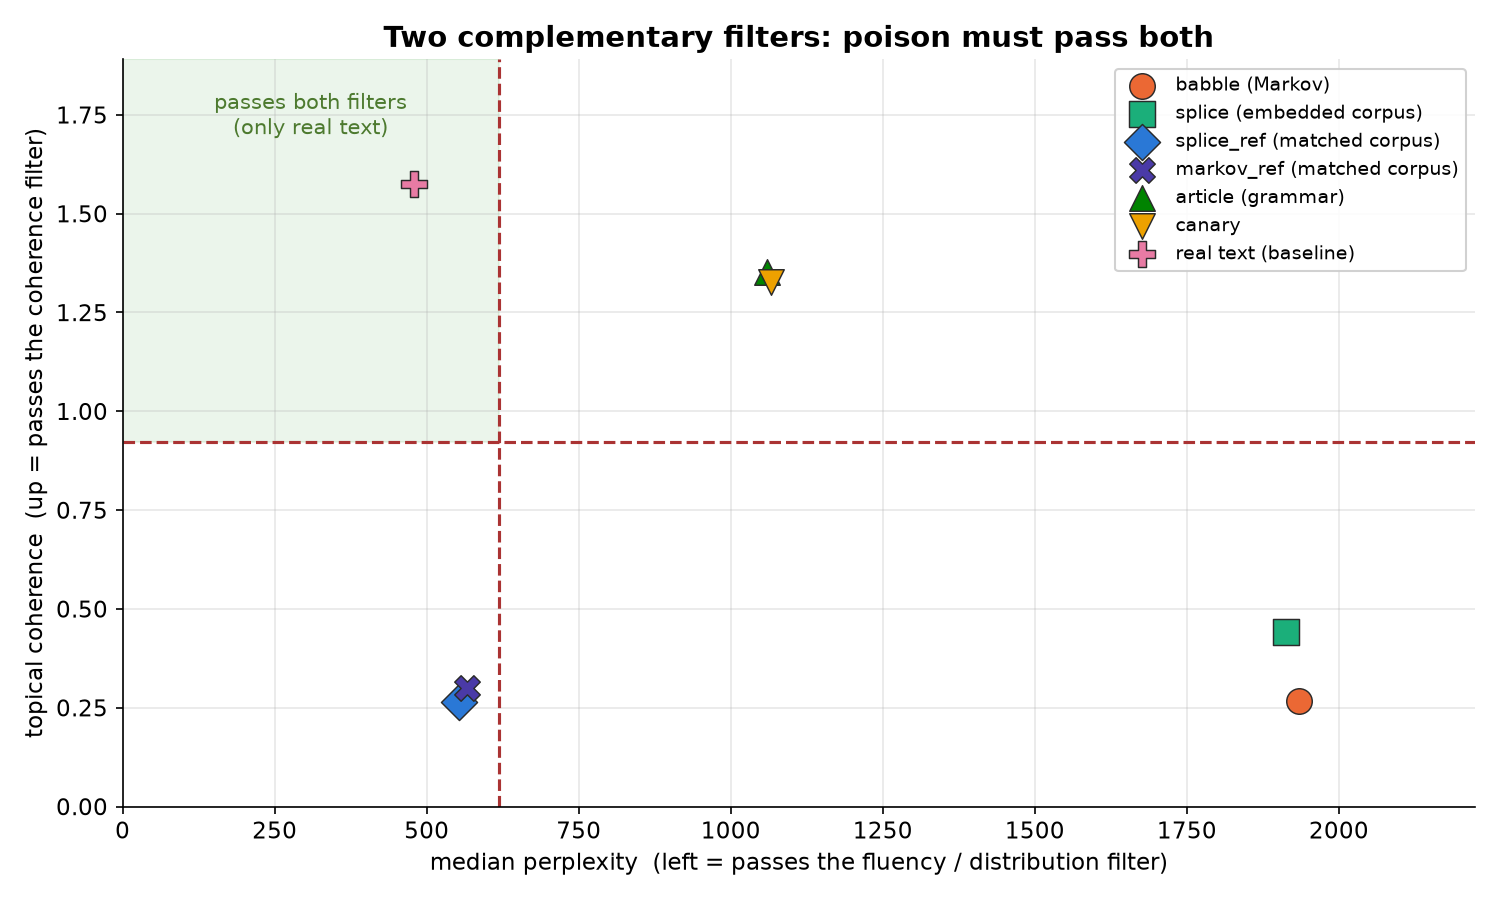
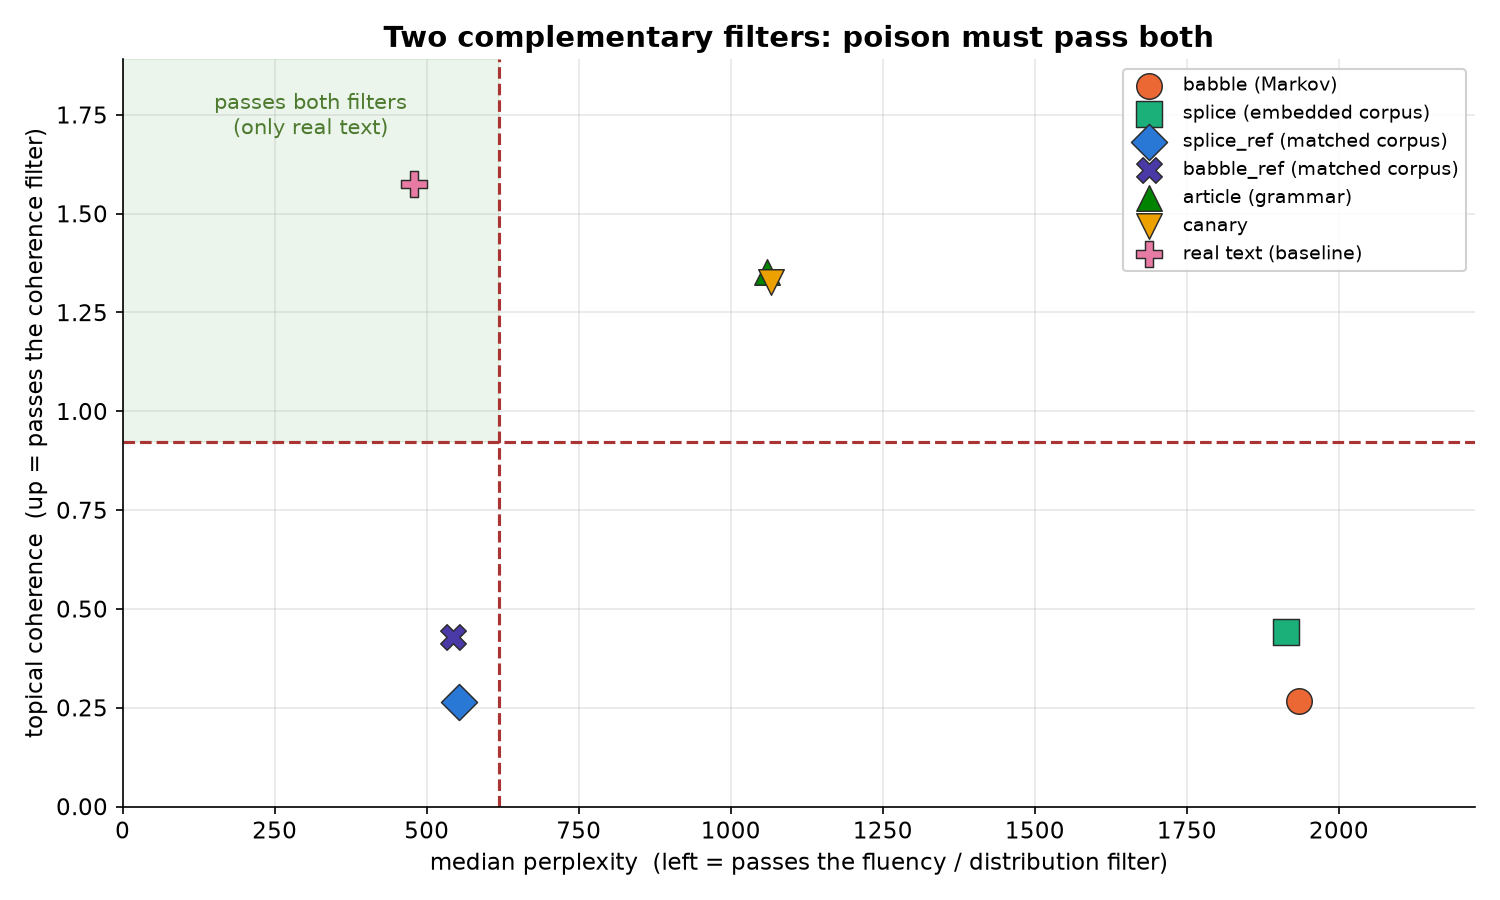
docs: use Henbane's real babble for the matched-corpus probe
Make the study's surviving generators 1:1 with the shipped gateway.

Before, the matched-corpus generator (markov_ref) was a Python order-2
Markov reimplementation. Now emit produces babble_ref by running
Henbane's SHIPPED babble generator over the reference corpus, exactly as
the gateway would with poison.corpus_path pointed at a matched corpus.
So both surviving strategies in the study are now real Henbane code:
splice_ref is the shipped splice, babble_ref is the shipped babble, each
differing from the embedded default only in the corpus.

babble_ref survives the full gauntlet at 61% (vs splice_ref 57%), so
Henbane's actual babble, pointed at a distribution-matched corpus, beats
the perplexity filter. It still fails the coherence filter (word salad),
like every bypass strategy, so the complementary-filters conclusion is
unchanged: only real text passes both, and convincing poison needs
LLM-grade generation.

- emit: add babble_ref alongside splice_ref (both over the reference corpus).
- study.py: load babble_ref from samples; drop the Python markov_ref and
  the now-dead markov_tokens helper; the generic Markov is kept only for
  the order-sweep bypass experiment. Prose and figures updated.

STUDY.md regenerated, dash-free. Research tooling only; no gateway change.

Changed region(s): [[0.736, 0.0622, 0.9507, 0.3111], [0.3067, 0.7467, 0.3373, 0.7778], [0.276, 0.6844, 0.3067, 0.7156]]

diff --git a/research/study.py b/research/study.py
@@ -51,10 +51,10 @@ DATA = ROOT / "data"
 FIGS = ROOT / "figures"
 FIGS.mkdir(exist_ok=True)
 
-STRATEGIES = ["babble", "splice", "splice_ref", "markov_ref", "article", "canary", "baseline_real"]
+STRATEGIES = ["babble", "splice", "splice_ref", "babble_ref", "article", "canary", "baseline_real"]
 LABELS = {"babble": "babble (Markov)", "splice": "splice (embedded corpus)",
           "splice_ref": "splice_ref (matched corpus)",
-          "markov_ref": "markov_ref (matched corpus)",
+          "babble_ref": "babble_ref (matched corpus)",
           "article": "article (grammar)",
           "canary": "canary", "baseline_real": "real text (baseline)"}
 # Categorical palette validated colorblind-safe (CVD ΔE 9.1, normal-vision floor
@@ -65,12 +65,12 @@ LABELS = {"babble": "babble (Markov)", "splice": "splice (embedded corpus)",
 # "not a strategy". The low-contrast WARN colors are fine here: every figure ships
 # with markers, a legend, and a data table (the relief rule).
 COLORS = {"babble": "#eb6834", "splice": "#1baf7a", "splice_ref": "#2a78d6",
-          "markov_ref": "#4a3aa7",
+          "babble_ref": "#4a3aa7",
           "article": "#008300", "canary": "#eda100",
           "baseline_real": "#e87ba4"}
 # Distinct marker shapes so lines that trace the same path (several strategies all
 # cliff to 0% together) stay tellable apart by shape, not colour alone.
-MARKERS = {"babble": "o", "splice": "s", "splice_ref": "D", "markov_ref": "X",
+MARKERS = {"babble": "o", "splice": "s", "splice_ref": "D", "babble_ref": "X",
            "article": "^", "canary": "v", "baseline_real": "P"}
 
 
@@ -95,13 +95,6 @@ def markov_gen(m, order, n, rng):
     return " ".join(out[:n])
 
 
-_PUNCT_WORD = re.compile(r"[a-z]+|[.!?]")
-
-
-def markov_tokens(text):
-    """Words plus sentence-ending punctuation, so a Markov chain over these emits
-    sentence boundaries (the markov_ref strategy needs them to clear the C4 checks)."""
-    return _PUNCT_WORD.findall(text.lower())
 
 STOPWORDS = set("the be to of and a in that have i it for not on with he as you "
                 "do at this but his by from they we say her she or an will my one "
@@ -254,17 +247,11 @@ def main():
         d = json.loads(line)
         docs[d["strategy"]].append(extract_text(d["html"]))
 
-    # markov_ref: a research-probe generator. An order-2 Markov chain over the MATCHED
-    # reference corpus (the register the perplexity model expects), not the embedded
-    # one the shipped generators use. It tests whether a *generator* (not sentence
-    # splicing) survives the gauntlet once the corpus matches the filter's distribution.
-    ref_text = (DATA / "reference.txt").read_text(encoding="utf-8")
-    matched = tokens(ref_text)                       # words only, for the order-sweep experiment
-    mk = build_markov(markov_tokens(ref_text), 2)    # words + punctuation, for a C4-passing document
-    n_ref = len(docs["splice_ref"]) or 300
-    for i in range(n_ref):
-        raw = markov_gen(mk, 2, 170, random.Random(1000 + i))
-        docs["markov_ref"].append(re.sub(r"\s+([.!?])", r"\1", raw))  # attach " ." -> "."
+    # babble_ref (Henbane's shipped babble generator run over the matched reference
+    # corpus, byte-for-byte what the gateway emits with poison.corpus_path set) is
+    # loaded from samples.jsonl like every other real strategy. The matched-corpus
+    # tokens are kept here for the Markov-order bypass experiment further down.
+    matched = tokens((DATA / "reference.txt").read_text(encoding="utf-8"))
 
     train = (DATA / "reference_train.txt").read_text(encoding="utf-8")
     lm = Trigram(train)
@@ -537,7 +524,7 @@ def plot_perplexity_vs_order(lm, cut, matched):
             "coherence or generator sophistication. Match the corpus and even crude "
             "generation passes; mismatch it and nothing does. This is why the shipped "
             "generators (over the embedded corpus) are filtered, why `splice_ref` and "
-            "`markov_ref` (both over the matched corpus) survive the full gauntlet, and "
+            "`babble_ref` (both over the matched corpus) survive the full gauntlet, and "
             "why the one real lever is `poison.corpus_path` pointed at distribution-matched "
             "text.\n\n"
             "**Honest limit.** Passing perplexity is not the same as being coherent. An "
@@ -596,12 +583,12 @@ def plot_filter_frontier(ppls, cohs, ppl_cut, coh_cut):
             f"text's {g(ys, 'baseline_real'):.1f}), but their coined entity names are words "
             f"no reference model has seen, so perplexity is {g(xs, 'article'):.0f}, far above "
             f"the {ppl_cut:.0f} cutoff.\n"
-            f"- **`splice_ref` and `markov_ref` pass perplexity but fail coherence.** The "
+            f"- **`splice_ref` and `babble_ref` pass perplexity but fail coherence.** The "
             f"matched corpus buys local fluency (perplexity {g(xs, 'splice_ref'):.0f} and "
-            f"{g(xs, 'markov_ref'):.0f}), but recombining random sentences or Markov-generating "
+            f"{g(xs, 'babble_ref'):.0f}), but recombining random sentences or Markov-generating "
             f"word salad destroys topical continuity: shared content words drop from "
             f"{g(ys, 'baseline_real'):.1f} for real text to {g(ys, 'splice_ref'):.1f} and "
-            f"{g(ys, 'markov_ref'):.1f}.\n"
+            f"{g(ys, 'babble_ref'):.1f}.\n"
             "- **`babble` and `splice` (embedded) fail both.**\n\n"
             "So a poison generator must clear two orthogonal bars at once: distribution-matched "
             "vocabulary AND coherent discourse, while still being false. Clearing both is what a "
@@ -657,8 +644,8 @@ def write_report(rows, ppls, cut):
         r = rows[s]
         return 100 * r["dedup"] / (r["n"] or 1)
 
-    sr_ppl, sp_ppl, mr_ppl = med("splice_ref"), med("splice"), med("markov_ref")
-    sr_final, real_final, mr_final = finalpct("splice_ref"), finalpct("baseline_real"), finalpct("markov_ref")
+    sr_ppl, sp_ppl, br_ppl = med("splice_ref"), med("splice"), med("babble_ref")
+    sr_final, real_final, br_final = finalpct("splice_ref"), finalpct("baseline_real"), finalpct("babble_ref")
     filtered = [LABELS[s] for s in STRATEGIES
                 if s != "baseline_real" and rows[s]["dedup"] == 0]
 
@@ -667,10 +654,10 @@ def write_report(rows, ppls, cut):
               "## What the numbers say", "",
               f"- **Only the distribution-matched strategies clear the full gauntlet, and it "
               f"does not matter whether you splice or generate.** `splice_ref` (whole sentences "
-              f"recombined from the reference corpus) and `markov_ref` (a plain order-2 Markov "
+              f"recombined from the reference corpus) and `babble_ref` (Henbane's shipped babble "
               f"generator over that same corpus) both land near real-text perplexity "
-              f"({sr_ppl:.0f} and {mr_ppl:.0f} vs the ~{cut:.0f} cutoff) and survive through "
-              f"dedup ({sr_final:.0f}% and {mr_final:.0f}%). Everything over the *embedded* "
+              f"({sr_ppl:.0f} and {br_ppl:.0f} vs the ~{cut:.0f} cutoff) and survive through "
+              f"dedup ({sr_final:.0f}% and {br_final:.0f}%). Everything over the *embedded* "
               f"corpus ({', '.join(filtered)}) is filtered ~100% at the perplexity stage. The "
               f"lever is the corpus, not the generator (quantified below).",
               f"- **The lever is the corpus, not the generator.** `splice` over the *embedded* "

diff --git a/research/emit/main.go b/research/emit/main.go
@@ -102,16 +102,19 @@ func main() {
 		}
 	}
 
-	// splice_ref is a research probe, not a shipped strategy: splice over the
-	// reference corpus (the register the perplexity model expects) instead of the
-	// embedded one. It isolates whether sentence-splicing survives when the corpus
-	// matches the filter's distribution, versus the embedded-corpus mismatch the
-	// shipped `splice` shows. Single-site only.
+	// splice_ref and babble_ref are research probes, not shipped strategies. They run
+	// the SHIPPED splice and babble generators over the reference corpus (the register
+	// the perplexity model expects) instead of the embedded one, isolating whether a
+	// strategy survives when its corpus matches the filter's distribution. They are
+	// byte-for-byte what the gateway produces with poison.corpus_path pointed at a
+	// matched corpus: only the corpus differs from the embedded default. Single-site only.
 	if *sites <= 1 {
 		if raw, err := os.ReadFile(*refPath); err == nil {
-			gen := labyrinth.New(*links, splice.New(raw, *baseSalt), *paragraphs)
+			spGen := labyrinth.New(*links, splice.New(raw, *baseSalt), *paragraphs)
+			bbGen := labyrinth.New(*links, babble.New(raw, *baseSalt), *paragraphs)
 			for i := 0; i < *n; i++ {
-				emitPage("splice_ref", "", fmt.Sprint(i), gen)
+				emitPage("splice_ref", "", fmt.Sprint(i), spGen)
+				emitPage("babble_ref", "", fmt.Sprint(i), bbGen)
 			}
 		}
 		// The baseline is site-agnostic; only emit it in single-site mode.

diff --git a/research/STUDY.md b/research/STUDY.md
@@ -13,7 +13,7 @@ Perplexity cutoff (calibrated): **618**.
 | babble (Markov) | 300 | 300 (100%) | 300 (100%) | 300 (100%) | 0 (0%) | 0 (0%) |
 | splice (embedded corpus) | 300 | 300 (100%) | 286 (95%) | 286 (95%) | 0 (0%) | 0 (0%) |
 | splice_ref (matched corpus) | 300 | 300 (100%) | 300 (100%) | 198 (66%) | 170 (57%) | 170 (57%) |
-| markov_ref (matched corpus) | 300 | 300 (100%) | 300 (100%) | 280 (93%) | 176 (59%) | 176 (59%) |
+| babble_ref (matched corpus) | 300 | 300 (100%) | 300 (100%) | 238 (79%) | 184 (61%) | 184 (61%) |
 | article (grammar) | 300 | 300 (100%) | 300 (100%) | 300 (100%) | 0 (0%) | 0 (0%) |
 | canary | 300 | 300 (100%) | 300 (100%) | 300 (100%) | 0 (0%) | 0 (0%) |
 | real text (baseline) | 300 | 300 (100%) | 300 (100%) | 231 (77%) | 210 (70%) | 89 (30%) |
@@ -27,7 +27,7 @@ Perplexity cutoff (calibrated): **618**.
 | babble (Markov) | 1934 | 1551 | 1111 | 4.0x |
 | splice (embedded corpus) | 1913 | 1695 | 1456 | 4.0x |
 | splice_ref (matched corpus) | 553 | 473 | 396 | 1.2x |
-| markov_ref (matched corpus) | 566 | 393 | 258 | 1.2x |
+| babble_ref (matched corpus) | 543 | 442 | 356 | 1.1x |
 | article (grammar) | 1059 | 891 | 724 | 2.2x |
 | canary | 1065 | 898 | 731 | 2.2x |
 | real text (baseline) | 479 | 393 | 296 | 1.0x |
@@ -38,7 +38,7 @@ Perplexity cutoff (calibrated): **618**.
 
 ## What the numbers say
 
-- **Only the distribution-matched strategies clear the full gauntlet, and it does not matter whether you splice or generate.** `splice_ref` (whole sentences recombined from the reference corpus) and `markov_ref` (a plain order-2 Markov generator over that same corpus) both land near real-text perplexity (553 and 566 vs the ~618 cutoff) and survive through dedup (57% and 59%). Everything over the *embedded* corpus (babble (Markov), splice (embedded corpus), article (grammar), canary) is filtered ~100% at the perplexity stage. The lever is the corpus, not the generator (quantified below).
+- **Only the distribution-matched strategies clear the full gauntlet, and it does not matter whether you splice or generate.** `splice_ref` (whole sentences recombined from the reference corpus) and `babble_ref` (Henbane's shipped babble generator over that same corpus) both land near real-text perplexity (553 and 543 vs the ~618 cutoff) and survive through dedup (57% and 61%). Everything over the *embedded* corpus (babble (Markov), splice (embedded corpus), article (grammar), canary) is filtered ~100% at the perplexity stage. The lever is the corpus, not the generator (quantified below).
 - **The lever is the corpus, not the generator.** `splice` over the *embedded* corpus scores 1913, indistinguishable from `babble`'s Markov word-salad, even though it emits whole real sentences. Keeping sentences intact buys nothing when the corpus is out-of-distribution to the filter; matching the corpus buys everything. (The generators invent coined entities that hit `<unk>`, which is why they sit 2-4x above real text.)
 - **Random recombination dodges dedup better than real text.** `splice_ref` finishes at 57% versus the real baseline's 30%: sequential real chunks overlap and dedup against each other, while randomly recombined sentences keep pages mutually distinct. Here recombination is a feature, not a bug.
 
@@ -63,7 +63,7 @@ The perplexity stage discards most generated poison (see the funnel). What does 
 - **Over the matched corpus, a plain Markov generator bypasses the filter from order 2.** Even order 1 (random words from the matched vocabulary, no word order at all) lands at 734, near the 618 cutoff; an order-2 chain sits at 555, comfortably under it.
 - **Over the unmatched corpus, no order helps.** Perplexity stays around 1993 at every order, far above the cutoff.
 
-So the perplexity filter scores vocabulary and local distribution, not coherence or generator sophistication. Match the corpus and even crude generation passes; mismatch it and nothing does. This is why the shipped generators (over the embedded corpus) are filtered, why `splice_ref` and `markov_ref` (both over the matched corpus) survive the full gauntlet, and why the one real lever is `poison.corpus_path` pointed at distribution-matched text.
+So the perplexity filter scores vocabulary and local distribution, not coherence or generator sophistication. Match the corpus and even crude generation passes; mismatch it and nothing does. This is why the shipped generators (over the embedded corpus) are filtered, why `splice_ref` and `babble_ref` (both over the matched corpus) survive the full gauntlet, and why the one real lever is `poison.corpus_path` pointed at distribution-matched text.
 
 **Honest limit.** Passing perplexity is not the same as being coherent. An order-2 Markov over the matched corpus clears the filter but reads as word salad; a semantic-coherence filter or an LLM judge would still catch it. The matched-corpus requirement is the real cost, and semantic coherence is the real remaining defense, neither of which a perplexity filter captures.
 
@@ -76,7 +76,7 @@ Perplexity is one gate. A pipeline that also checks topical coherence (more comm
 Every poison strategy fails at least one filter, and only real text passes both:
 
 - **`article` and `canary` are coherent but fail perplexity.** One fictional entity runs through each page (coherence 1.4, near real text's 1.6), but their coined entity names are words no reference model has seen, so perplexity is 1059, far above the 618 cutoff.
-- **`splice_ref` and `markov_ref` pass perplexity but fail coherence.** The matched corpus buys local fluency (perplexity 553 and 566), but recombining random sentences or Markov-generating word salad destroys topical continuity: shared content words drop from 1.6 for real text to 0.3 and 0.3.
+- **`splice_ref` and `babble_ref` pass perplexity but fail coherence.** The matched corpus buys local fluency (perplexity 553 and 543), but recombining random sentences or Markov-generating word salad destroys topical continuity: shared content words drop from 1.6 for real text to 0.3 and 0.4.
 - **`babble` and `splice` (embedded) fail both.**
 
 So a poison generator must clear two orthogonal bars at once: distribution-matched vocabulary AND coherent discourse, while still being false. Clearing both is what a language model does. That is the honest bottom line of this study: convincing poison at scale needs LLM-grade generation, not a Markov chain or a sentence splicer. The cheap generators each fail one filter, and the matched-corpus tricks that beat perplexity fall to coherence.
